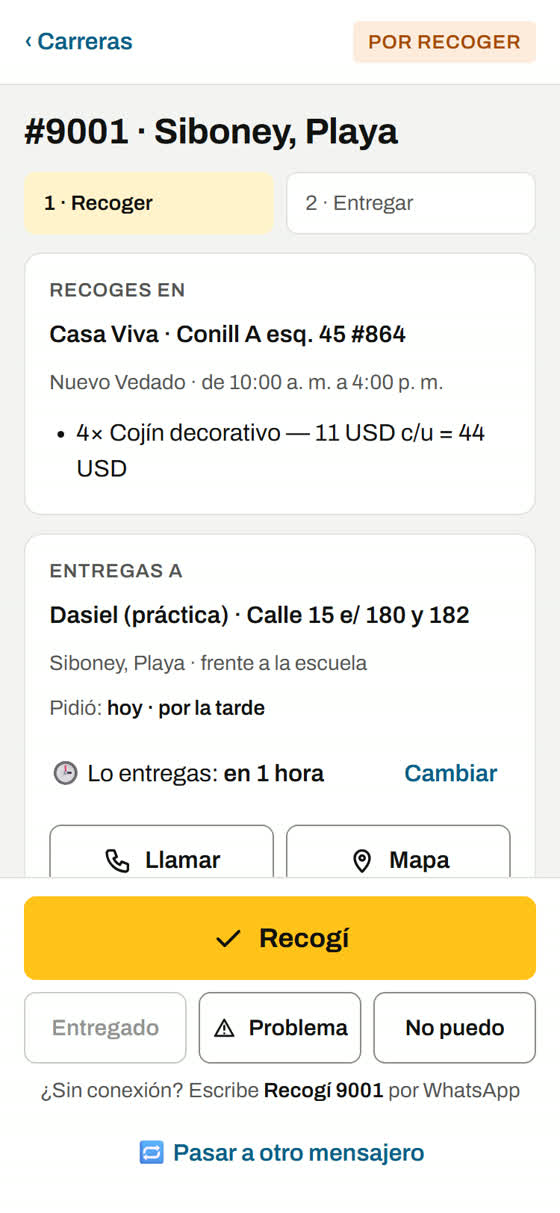
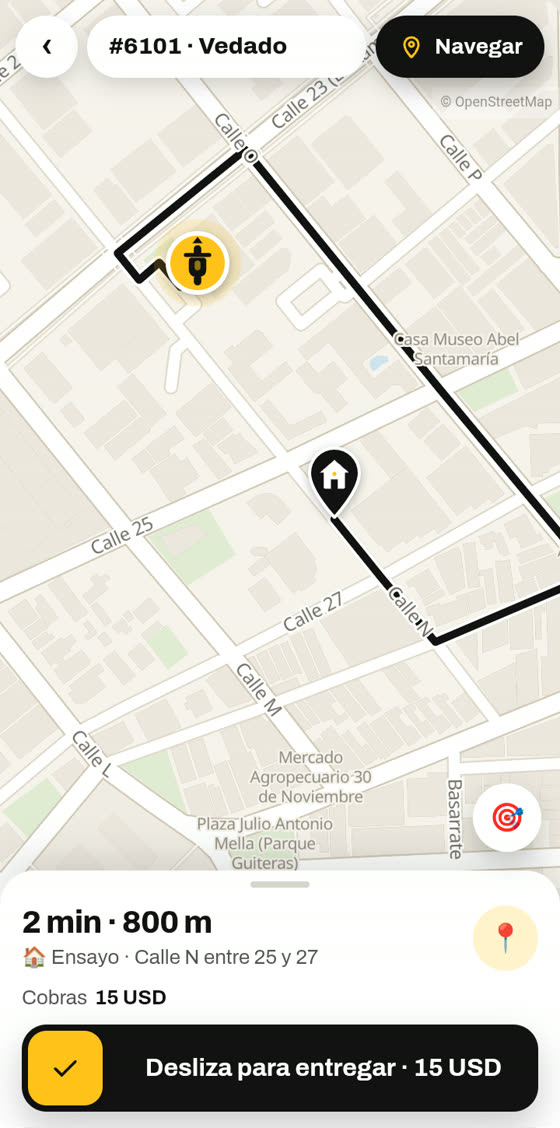
Core 3.14.115: Pa'llá, guía al día (Conectarme, mapa con ruta, deslizar para entregar; sin la hora ni el cobro) y cómo entrar escribiendo «Pa'llá» al bot

diff --git a/wordpress/casa-viva-dropship-core/assets/palla/guia.html b/wordpress/casa-viva-dropship-core/assets/palla/guia.html
@@ -71,8 +71,8 @@ footer{padding:20px 0 34px;color:var(--muted);font-size:14px;text-align:center}
 <header class="hero">
 	<div class="wrap">
 		<div class="logo"><span aria-hidden="true">P</span>Pa'llá · Casa Viva</div>
-		<h1>Coge la carrera <em>con un toque</em>. Cobra claro. Sigue trabajando <em>aunque se vaya la señal</em>.</h1>
-		<p>Pa'llá es la app de Casa Viva para mensajeros. Es gratis, no tiene contraseña y no hay que instalar nada de ninguna tienda.</p>
+		<h1>Coge la carrera <em>con un toque</em>. El mapa te lleva. Entregas <em>deslizando</em>.</h1>
+		<p>Pa'llá es la app de Casa Viva para mensajeros. Es gratis y no tiene contraseña. Se instala con el archivo que mandamos al grupo de Mensajerías.</p>
 		<a class="btn btn-main" href="{{P}}">Pruébala ahora, sin riesgo</a>
 		<div class="small">Es una práctica con carreras inventadas: nada de lo que toques es real.</div>
 	</div>
@@ -97,30 +97,30 @@ footer{padding:20px 0 34px;color:var(--muted);font-size:14px;text-align:center}
 <section>
 	<div class="wrap">
 		<p class="kicker">Cómo funciona</p>
-		<h2>Una carrera en 6 toques</h2>
+		<h2>Así va una carrera</h2>
 
 		<div class="step">
-			<h3><span class="num">1</span>Ves las carreras libres y tocas «La cojo»</h3>
-			<p>Lo mismo que el «Yo» del grupo: <b>el primero que toca, gana</b>. Ves de dónde a dónde, cuánto ganas y cuánto cobras al cliente antes de cogerla.</p>
-			<div class="phone"><img src="{{A}}guia/paso-1.jpg" width="560" height="1212" alt="Lista de carreras disponibles con el botón amarillo «La cojo»"></div>
+			<h3><span class="num">1</span>«Conectarme» y «La cojo»</h3>
+			<p>Cuando estás para trabajar tocas <b>«Conectarme»</b> y te suenan las carreras. Ves de dónde a dónde, cuánto ganas y cuánto cobras. Lo mismo que el «Yo» del grupo: <b>el primero que toca «La cojo», gana</b>.</p>
+			<div class="phone"><img src="{{A}}guia/paso-1.jpg" width="560" height="1058" alt="Disponible y lista de carreras libres con el botón «La cojo»"></div>
 		</div>
 
 		<div class="step">
-			<h3><span class="num">2</span>Dices a qué hora la entregas</h3>
-			<p>Eliges «en 1 hora», «hoy por la tarde» u otra hora. <b>La gestora o el cliente se enteran solos</b>: nadie te escribe para preguntarte.</p>
-			<div class="phone"><img src="{{A}}guia/paso-2.jpg" width="560" height="1212" loading="lazy" alt="Pantalla «¿A qué hora lo entregas?» con opciones rápidas"></div>
+			<h3><span class="num">2</span>El mapa te lleva a la tienda</h3>
+			<p>Ves <b>la ruta por las calles</b> y cuánto tardas. <b>«Navegar»</b> la abre en tu app de mapas. Al recoger tocas <b>«Recogí»</b> y la tienda lo ve.</p>
+			<div class="phone"><img src="{{A}}guia/paso-2.jpg" width="560" height="1086" loading="lazy" alt="Mapa con la ruta hasta la tienda y el botón «Recogí»"></div>
 		</div>
 
 		<div class="step">
-			<h3><span class="num">3</span>Todo de tu carrera en una pantalla</h3>
-			<p>Dónde recoges, a quién entregas, <b>Llamar</b> y <b>Mapa</b> con un toque. Al recoger tocas <b>«Recogí»</b> y la tienda lo ve.</p>
-			<div class="phone"><img src="{{A}}guia/paso-3.jpg" width="560" height="1212" loading="lazy" alt="Pantalla de la carrera con el botón «Recogí»"></div>
+			<h3><span class="num">3</span>Llegas a la casa y deslizas para entregar</h3>
+			<p>El mapa te marca <b>la casa del cliente</b> y te dice <b>cuánto cobras</b>, que es lo que dice el vale. El cliente ve en su enlace que vas llegando. Al entregar, <b>deslizas el botón</b> hasta el final.</p>
+			<div class="phone"><img src="{{A}}guia/paso-3.jpg" width="560" height="1128" loading="lazy" alt="Mapa con la casa del cliente y el botón «Desliza para entregar»"></div>
 		</div>
 
 		<div class="step">
-			<h3><span class="num">4</span>«Entregado» y te dice cuánto llevas</h3>
-			<p>Marcas cómo pagó el cliente y la app <b>te dice exacto cuánto llevar a la tienda, con el vuelto ya sumado</b>. Se acabaron las cuentas a mano.</p>
-			<div class="phone"><img src="{{A}}guia/paso-4.jpg" width="560" height="1212" loading="lazy" alt="Pantalla «¿Cuánto cobraste?» con lo que hay que llevar a la tienda"></div>
+			<h3><span class="num">4</span>Te dice cuánto llevar a la tienda</h3>
+			<p>Al entregar, la app <b>te dice exacto cuánto llevar a la tienda, con el vuelto ya sumado</b>. Se acabaron las cuentas a mano. La mensajería es tuya.</p>
+			<div class="phone"><img src="{{A}}guia/paso-4.jpg" width="560" height="1012" loading="lazy" alt="Aviso «entregado» y lo que hay que llevar a la tienda"></div>
 		</div>
 
 		<div class="step">
@@ -155,7 +155,7 @@ footer{padding:20px 0 34px;color:var(--muted);font-size:14px;text-align:center}
 		<div class="vs">
 			<div class="h a">Antes (solo el grupo)</div><div class="h b">Con Pa'llá</div>
 			<div class="a">«Yo» y a esperar</div><div class="b">«La cojo» y es tuya al momento</div>
-			<div class="a">Te preguntan la hora</div><div class="b">La pones una vez y avisa sola</div>
+			<div class="a">«¿Dónde es eso?»</div><div class="b">El mapa con la ruta</div>
 			<div class="a">«¿Ya entregaste?»</div><div class="b">Un toque y queda apuntado</div>
 			<div class="a">Cuentas del vuelto a mano</div><div class="b">Te dice cuánto llevar</div>
 			<div class="a">Sin señal, nadie sabe nada</div><div class="b">Se guarda y se manda solo</div>
@@ -172,6 +172,7 @@ footer{padding:20px 0 34px;color:var(--muted);font-size:14px;text-align:center}
 			<li>El grupo de Mensajerías sigue funcionando.</li>
 			<li>Si un día la app no carga, escribes al WhatsApp de Casa Viva como siempre.</li>
 			<li>No hay contraseña: entras con tu enlace personal.</li>
+			<li>Cuando no trabajas, tocas «Desconectarme» y no te suena nada.</li>
 		</ul>
 	</div>
 </section>
@@ -181,7 +182,7 @@ footer{padding:20px 0 34px;color:var(--muted);font-size:14px;text-align:center}
 		<h2>Preguntas</h2>
 		<details><summary>¿Cuesta algo?</summary><p>No. Es gratis para los mensajeros de Casa Viva.</p></details>
 		<details><summary>¿Gasta muchos datos?</summary><p>Muy pocos. Se guarda en el teléfono y solo baja lo nuevo.</p></details>
-		<details><summary>¿Cómo entro?</summary><p>Con tu enlace personal. Es solo tuyo: no lo pases a nadie. Se abre con Chrome y, si te sale «Instalar» o «Añadir a pantalla de inicio», le das y te queda como una app.</p></details>
+		<details><summary>¿Cómo entro?</summary><p>1) Instala la app con el archivo del grupo de Mensajerías. 2) Escribe <b>Pa'llá</b> al WhatsApp de Casa Viva y te llega tu enlace personal. 3) Tócalo y se abre en la app. Es solo tuyo: no lo pases a nadie.</p></details>
 		<details><summary>¿Y si pierdo el teléfono?</summary><p>Avisas a la tienda y anula tu enlace al momento. Te dan uno nuevo.</p></details>
 		<details><summary>¿Y si me equivoco?</summary><p>Toca «Problema» y la tienda lo ve al instante. Antes de recoger también puedes tocar «No puedo» y la carrera vuelve a quedar libre.</p></details>
 	</div>
@@ -192,7 +193,7 @@ footer{padding:20px 0 34px;color:var(--muted);font-size:14px;text-align:center}
 		<h2>Pruébala hoy. No pierdes nada.</h2>
 		<p>Entra en la práctica, coge una carrera inventada y entrégala. En 5 minutos sabes usarla.</p>
 		<a class="btn btn-main" href="{{P}}">Abrir la práctica</a>
-		<p style="margin-top:18px">¿Quieres usarla de verdad? <b style="color:#fff">Pídele tu enlace personal a la tienda.</b> Estamos empezando con pocos mensajeros y vamos sumando.</p>
+		<p style="margin-top:18px">¿Quieres usarla de verdad? <b style="color:#fff">Escribe «Pa'llá» al WhatsApp de Casa Viva</b> y te llega tu enlace personal.</p>
 	</div>
 </section>
 </main>

diff --git a/wordpress/casa-viva-dropship-core/casa-viva-dropship-core.php b/wordpress/casa-viva-dropship-core/casa-viva-dropship-core.php
@@ -12,7 +12,7 @@
 
 defined( 'ABSPATH' ) || exit;
 
-define( 'CVD_VERSION', '3.14.114' );
+define( 'CVD_VERSION', '3.14.115' );
 define( 'CVD_FILE', __FILE__ );
 define( 'CVD_DIR', plugin_dir_path( __FILE__ ) );
 define( 'CVD_URL', plugin_dir_url( __FILE__ ) );
